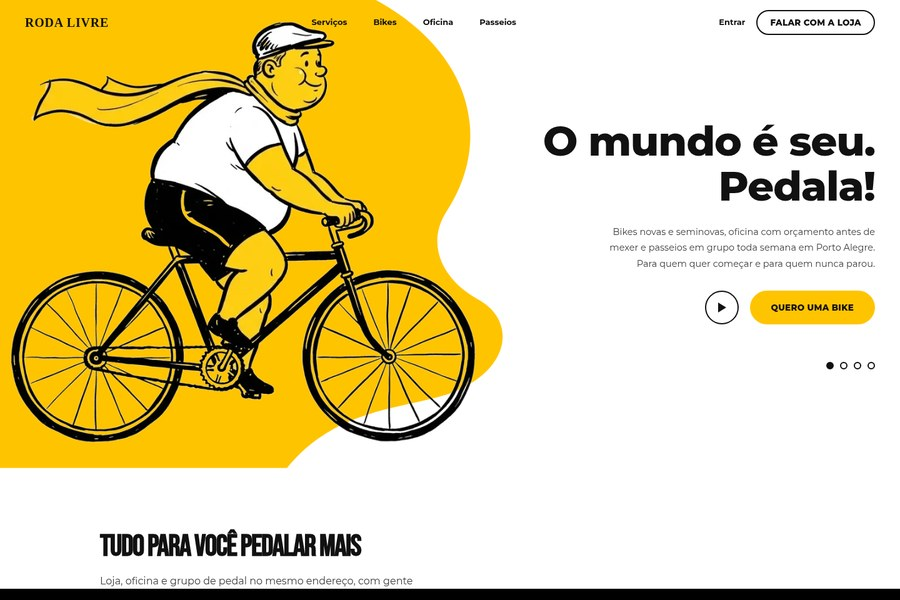
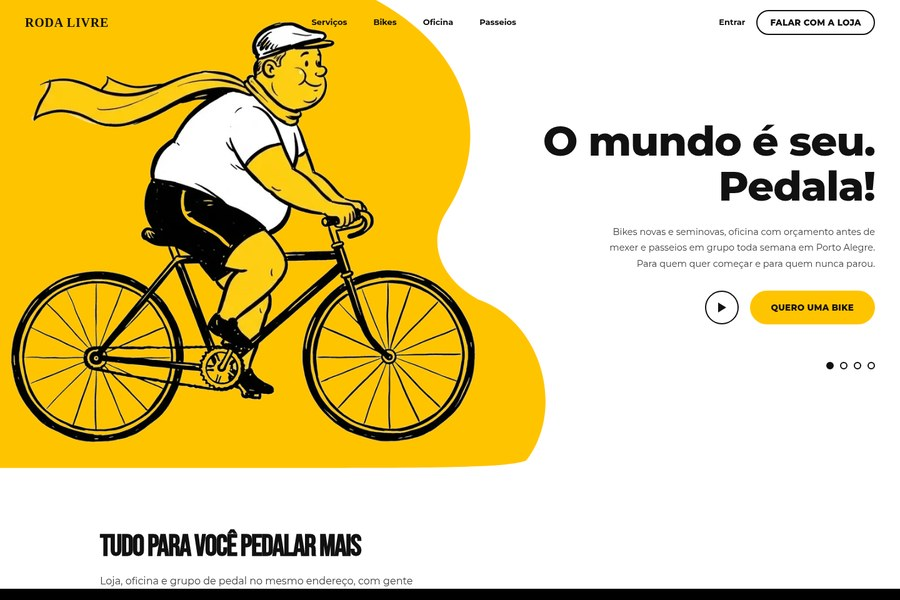
Roda Livre: mancha cobre a roda da frente inteira

Changed region(s): [[0.3111, 0.51, 0.6222, 0.78]]

diff --git a/src/components/models/BikeFold.tsx b/src/components/models/BikeFold.tsx
@@ -142,7 +142,7 @@ export function BikeFold({ client }: { client?: { name?: string; whatsapp?: stri
       </div>
 
       <div className="hero">
-        <svg className="blob" viewBox="0 0 700 640" preserveAspectRatio="none" aria-hidden><path d="M0 0H470c120 70 150 190 90 290-24 40-10 90 40 120 50 30 40 100-40 130-60 20-140 20-200 100H0z" fill={Y} /></svg>
+        <svg className="blob" viewBox="0 0 700 640" preserveAspectRatio="none" aria-hidden><path d="M0 0H470c120 70 150 190 90 290-24 40-10 90 40 120 80 30 110 150 60 220-20 8-80 10-230 10H0z" fill={Y} /></svg>
         <Rider />
         <div className="ht">
           <h1>O mundo é seu.<br />Pedala!</h1>
